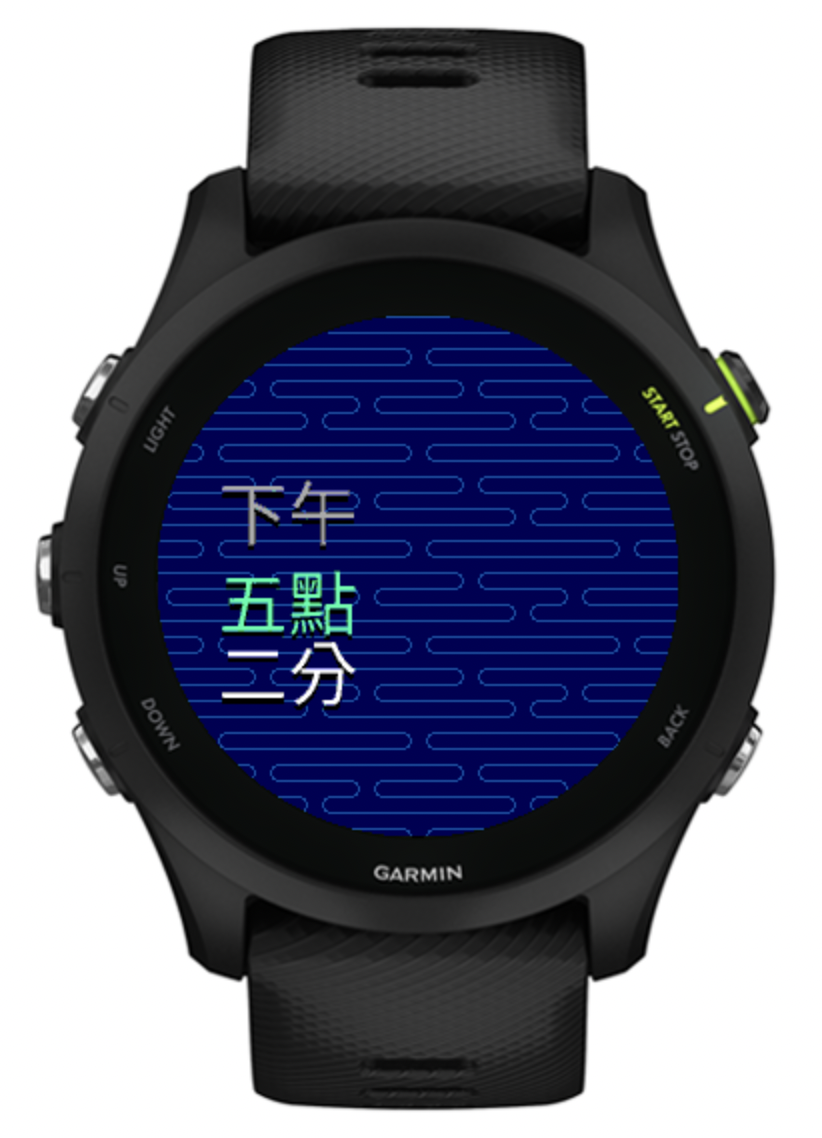
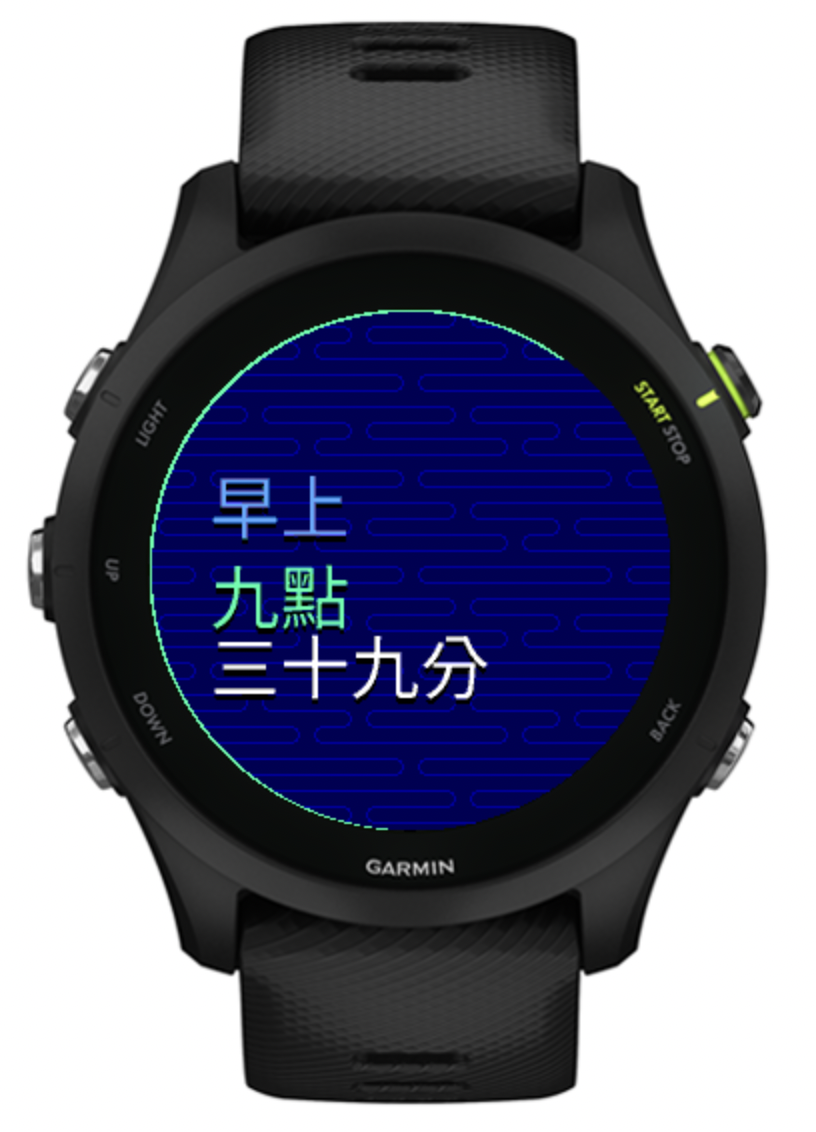
secondhand, new colors

diff --git a/README.md b/README.md
@@ -14,3 +14,7 @@ TODO:
       alt="Available on Garmin Connect IQ"
       height="90">](https://apps.garmin.com/en-US/apps/1bc3faea-050d-40ed-811d-506de3f2019b) -->
 
+
+## Notes
+
+- [Garmin Color Palette](https://lospec.com/palette-list/6-bit-rgb)
